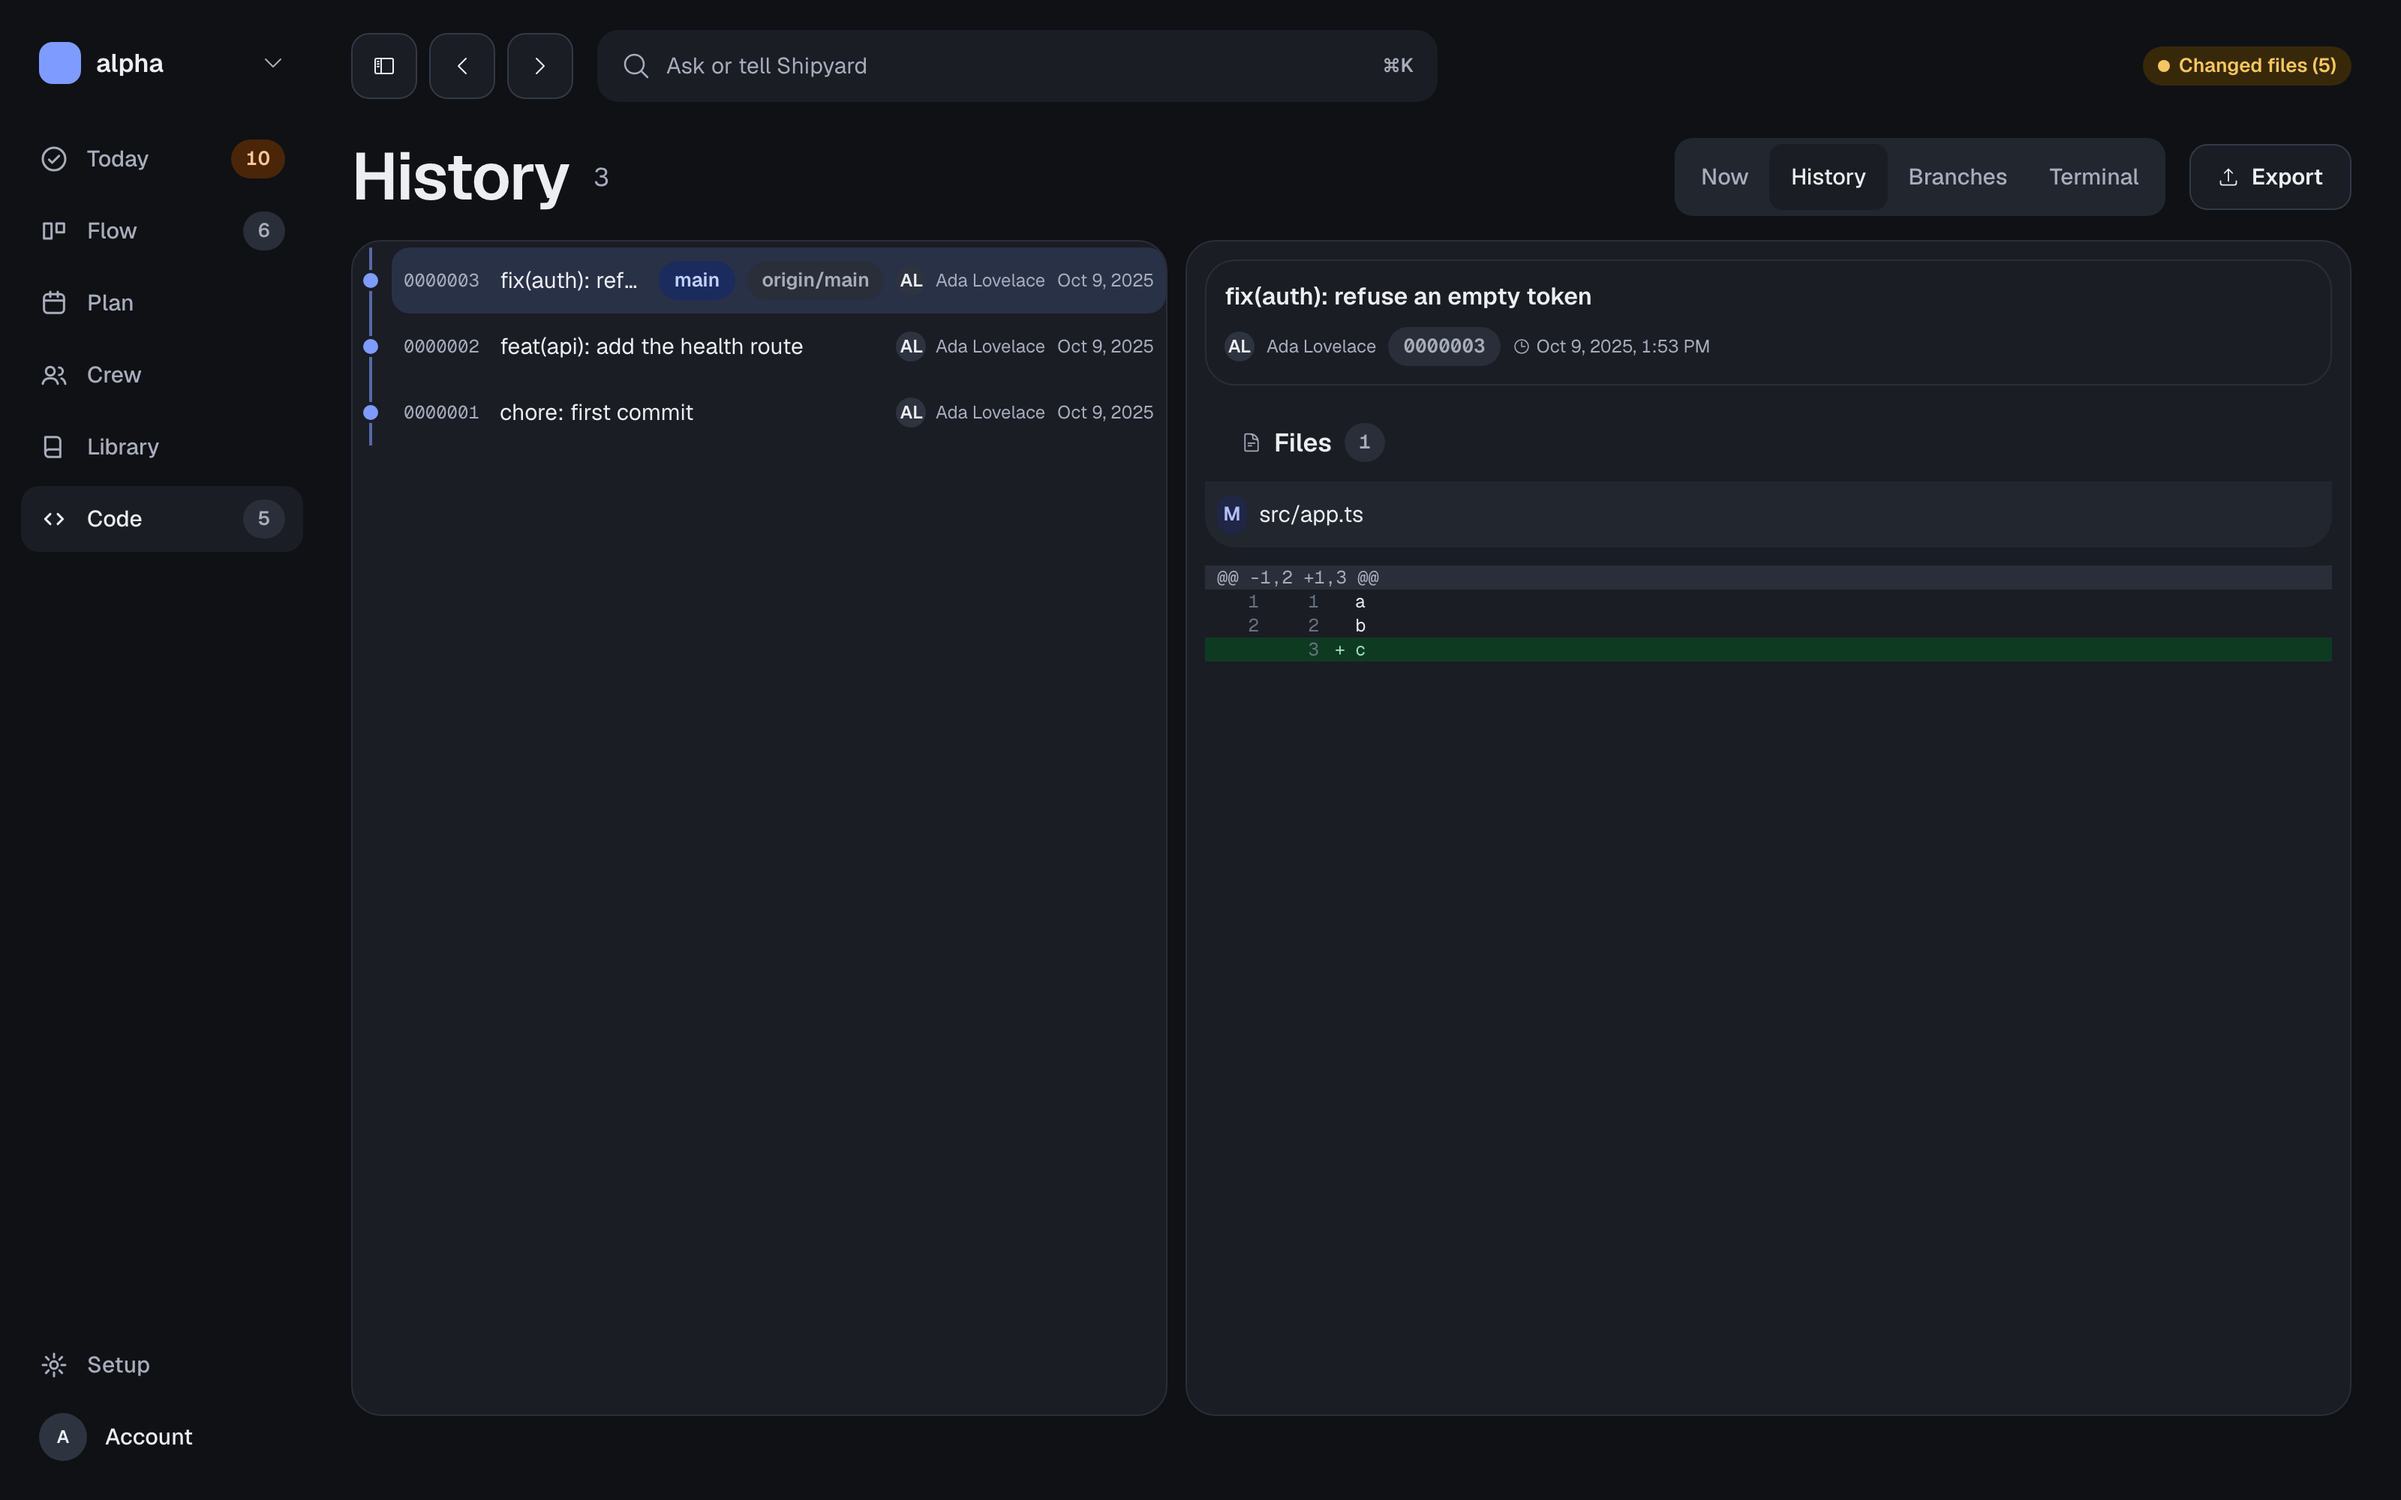
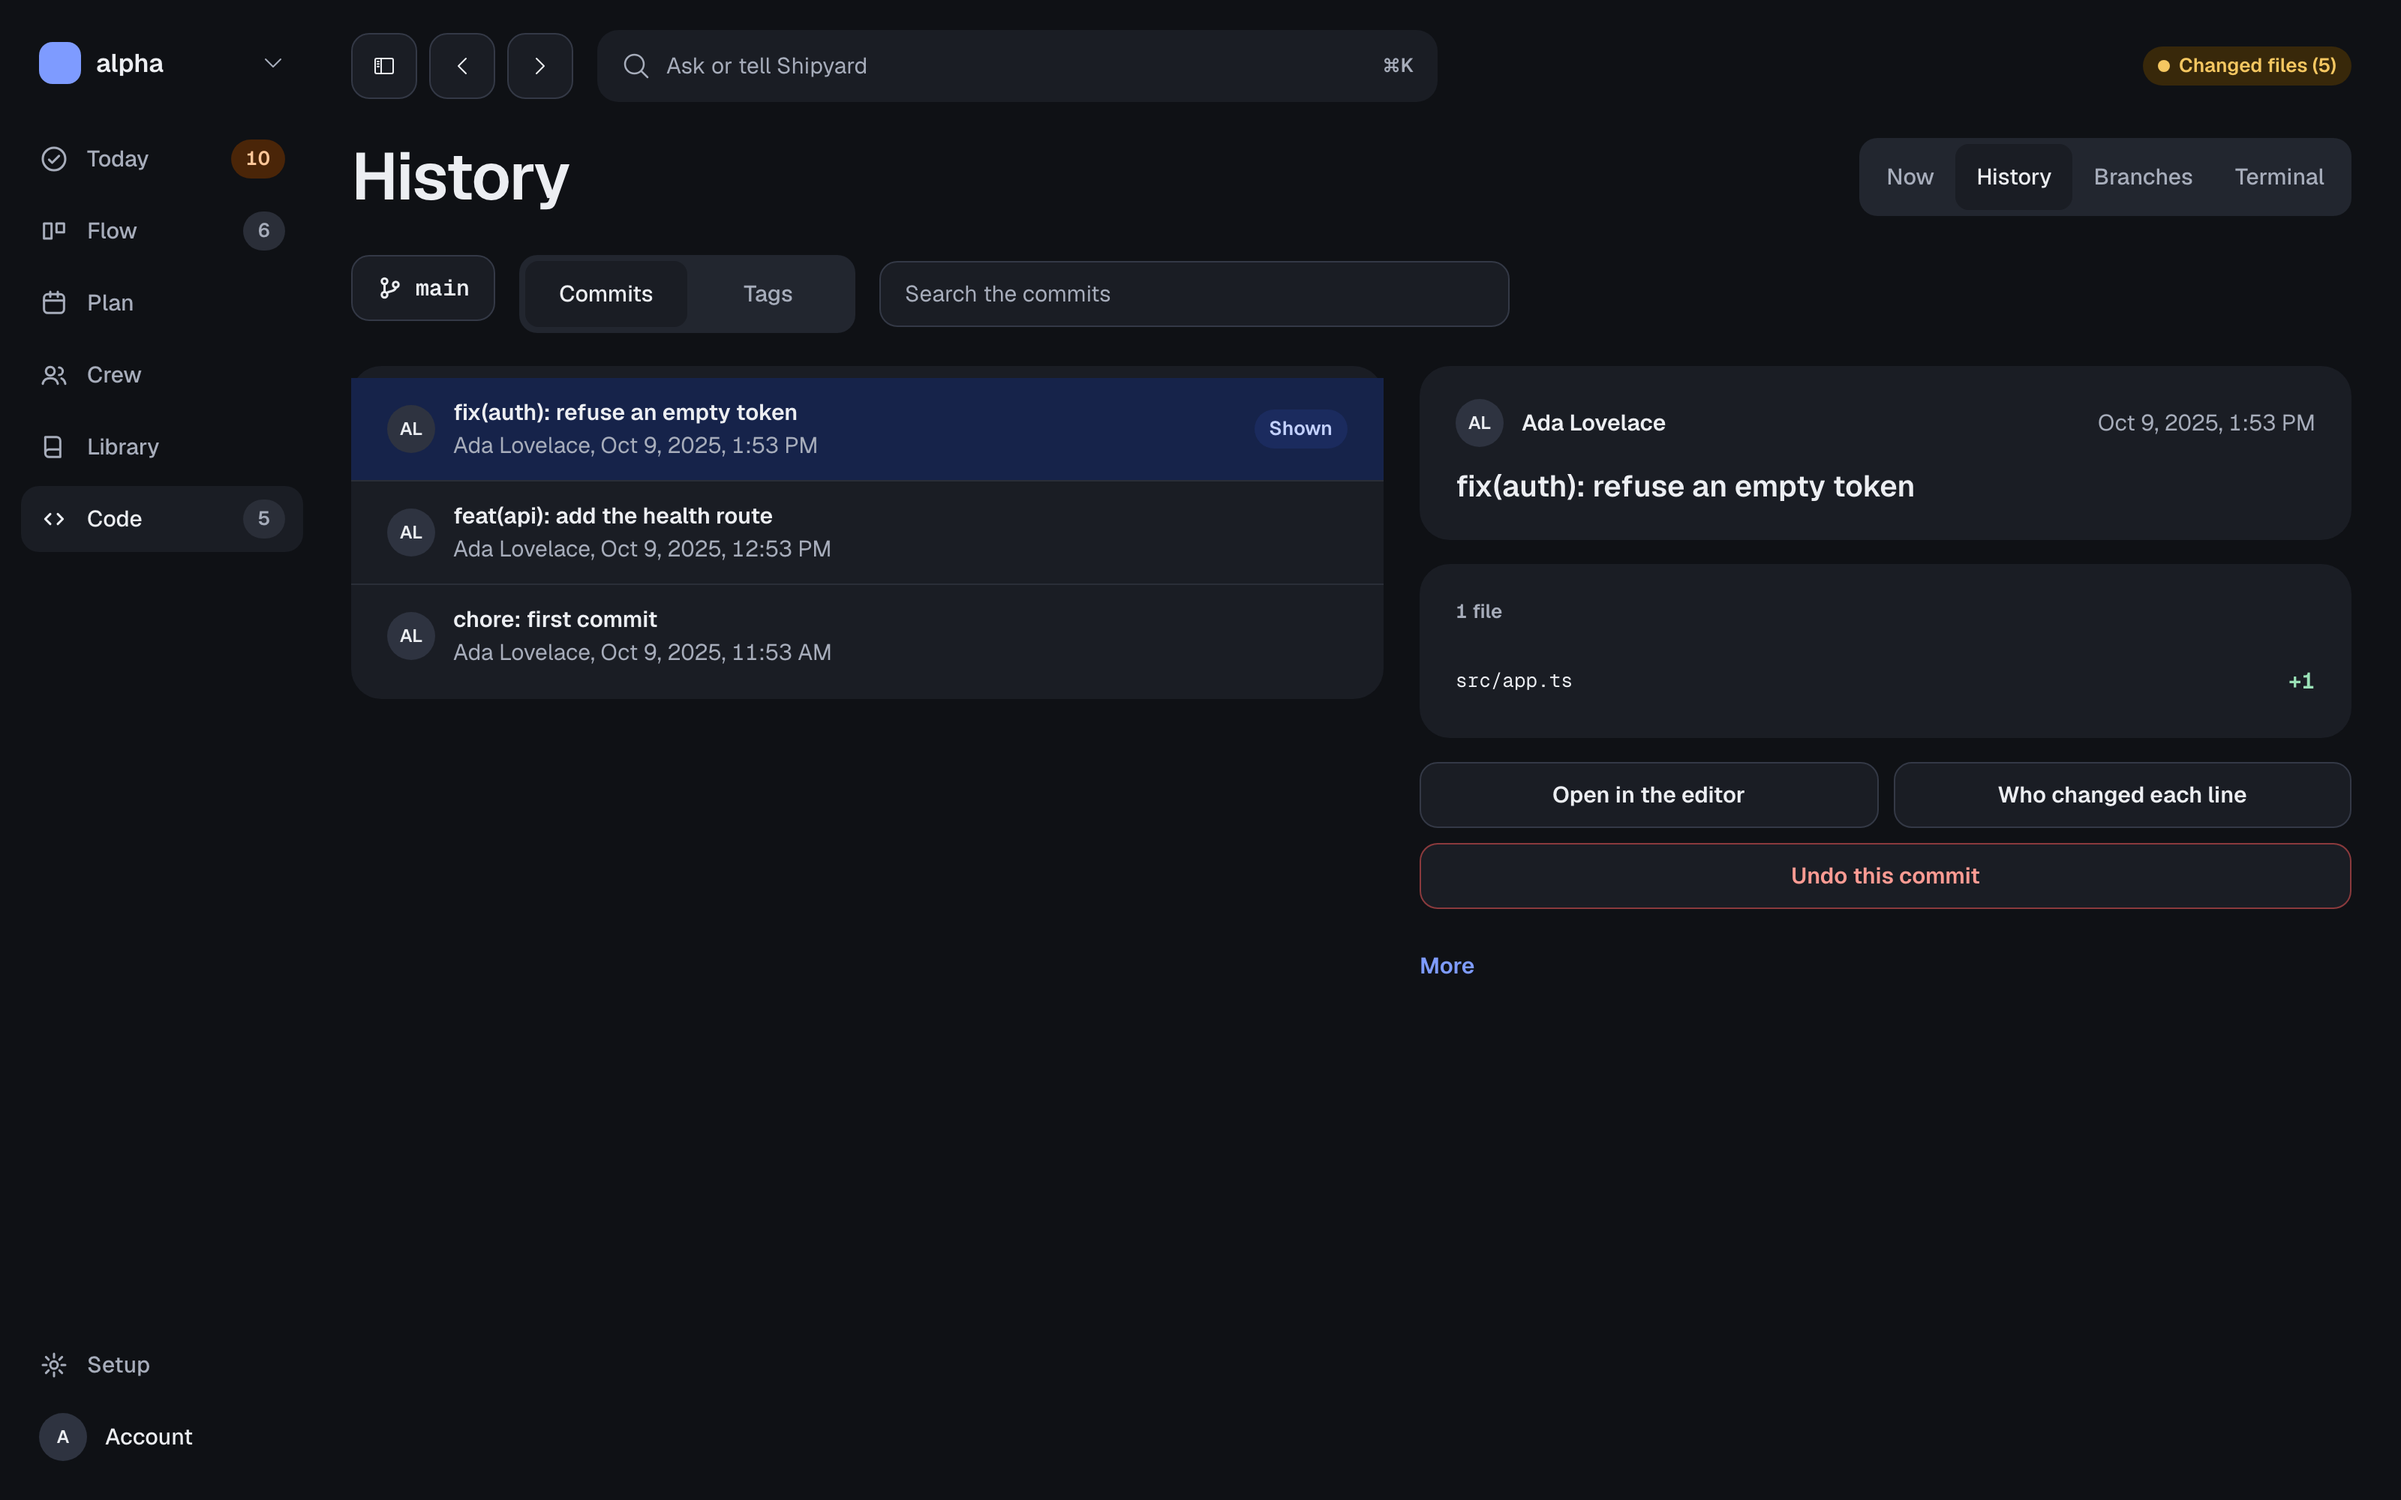
docs(redesign): retake the pictures of the Code and Setup pages
Add the pictures of the new screens SCR-180 to SCR-184 and move the
scene of the system permissions to Logs and feedback.

diff --git a/scripts/screenshots.ts b/scripts/screenshots.ts
@@ -460,7 +460,8 @@ const scenes: Scene[] = [
 	{
 		name: "settings-permissions",
 		run: async (p) => {
-			await open(p, "This computer");
+			// What the system allows is a card of Logs and feedback (look pass 2).
+			await go(p, "/setup/computer?page=logs");
 			await p.locator("#section-permissions").scrollIntoViewIfNeeded();
 		},
 	},

diff --git a/docs/openspec/changes/update-app-redesign/specs/app-redesign/tasks.md b/docs/openspec/changes/update-app-redesign/specs/app-redesign/tasks.md
@@ -85,7 +85,7 @@ Look pass 1, shell, tokens and shared parts
 - [ ] T045 Retake the pictures of `docs/assets/screenshots/` and add the picture of SCR-097.
 - [ ] T046 Owner decision on the open points of look pass 1 in `.agents/progress/app-redesign.md` (the field border under 3:1, the Sign out action, the narrow bar preference).
 - [x] T047 Look pass 2, Code and Setup: rebuild Code Now, local changes, History, Branches, Terminal and the pages of Setup to their design pictures (`src/features/code/`, `src/features/settings/`, `src/features/projects/`, `src/features/sync/`). `spec:app-redesign#REQ-024`.
-- [ ] T048 Retake the pictures of the 19 screens of look pass 2 Code and Setup with `scripts/screenshots.ts` and compare each one with its design picture in a fresh context.
+- [x] T048 Retake the pictures of the 19 screens of look pass 2 Code and Setup with `scripts/screenshots.ts` and compare each one with its design picture in a fresh context.
 
 Look pass 2, Library
 
